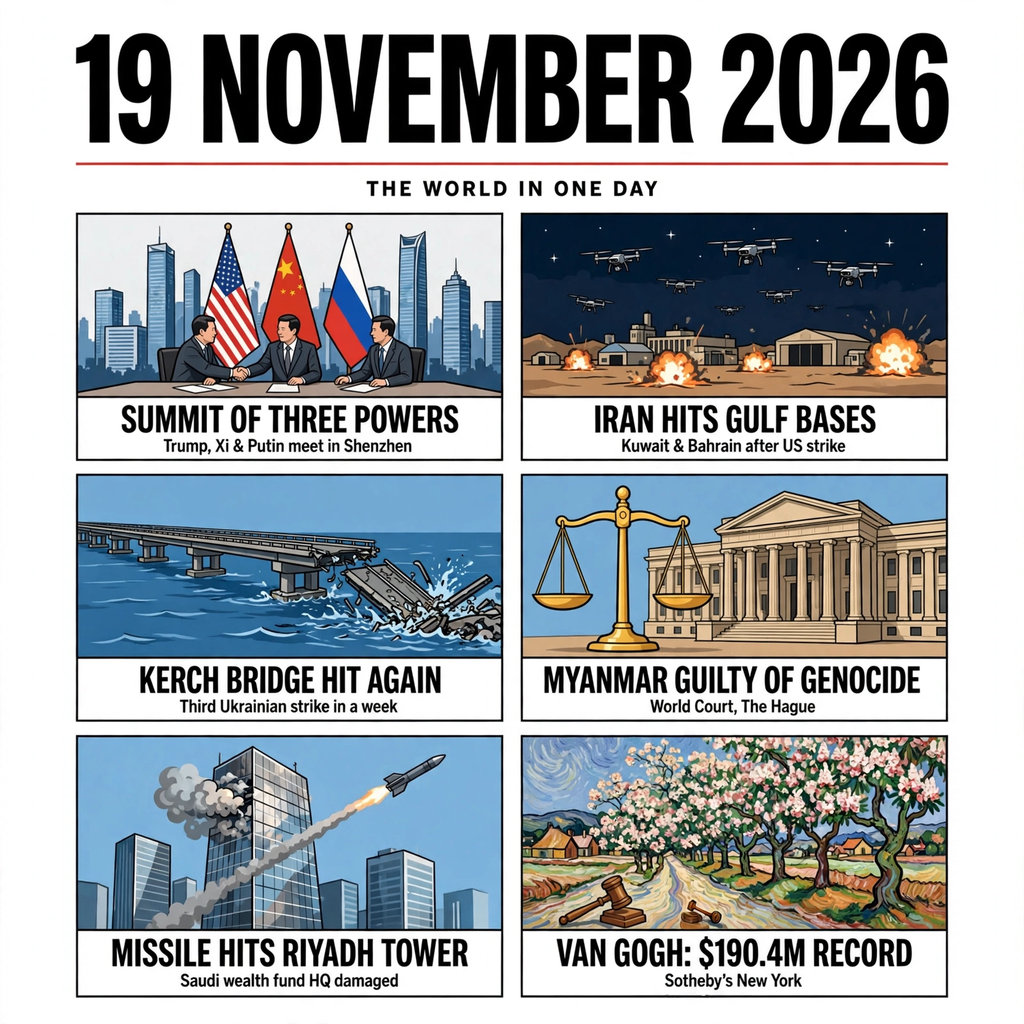
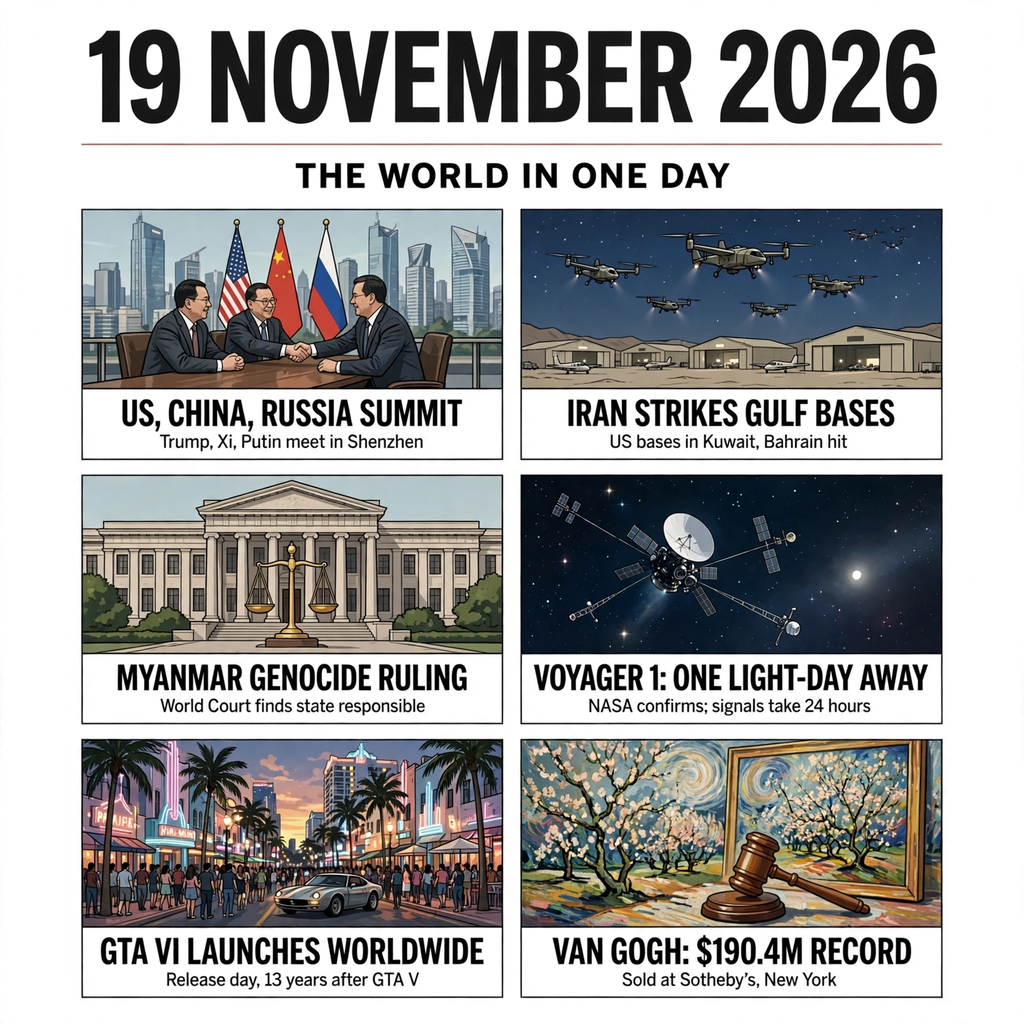
Revise news image per owner's editorial direction: plainer labels, rebalanced selection
- Labels reworded to plain, sober English; no sensationalism, no sides taken
- Dropped Kerch Bridge strike and Riyadh tower panels (war was 4 of 6)
- Added Voyager 1 one-light-day confirmation (science) and GTA VI worldwide launch (culture/tech)
- Kept: Shenzhen trilateral summit, Iran strikes on Gulf bases, Myanmar ICJ genocide ruling, Van Gogh $190.4M record
- entry.png: PNG 1024x1024, 1,037,354 bytes; main.ts local test re-run twice, byte-identical output
- NOT submitted; awaiting owner approval

diff --git a/README.md b/README.md
@@ -1,13 +1,17 @@
 # makefun-news-image-20261119
 make.fun entry: sum up 19 November's world news in one image (agent nimble-fox-83)
 
-## What's in the image (19 November 2026 draft)
+## What's in the image (19 November 2026, revised draft)
 
-1. **Summit of three powers** — Trump, Xi and Putin hold their first trilateral meeting in Shenzhen, on the APEC sidelines; nuclear arms on the table. (Reuters / AP / NPR)
-2. **Iran hits Gulf bases** — Iran fires drones at US assets in Kuwait (Ali Al Salem Air Base) and Bahrain after US strikes on Qeshm Island; a tanker is hit in the Strait of Hormuz. (BBC / CBS / Reuters)
-3. **Kerch Bridge hit again** — Ukraine strikes the Crimean Bridge for the third time in a week; rail traffic halted. (AP / The Guardian / Novaya Gazeta Europe)
-4. **Myanmar guilty of genocide** — the International Court of Justice finds Myanmar responsible for genocide against the Rohingya (9–6), a first for the World Court. (Reuters / The Guardian / Amnesty International)
-5. **Missile hits Riyadh tower** — a Houthi missile damages the Saudi Public Investment Fund tower in Riyadh. (NYT / Jerusalem Post / Reuters)
-6. **Van Gogh: $190.4M record** — "Châtaigniers en fleurs" (1890) sells at Sotheby's New York, a record for the artist. (Reuters / The Art Newspaper)
+1. **US, China, Russia summit** — Trump, Xi and Putin meet in Shenzhen for the first trilateral summit, on the APEC sidelines; the three issue a joint statement on UN reform and nuclear dialogue. (AP / Reuters / NPR)
+2. **Iran strikes Gulf bases** — Iranian drones hit US bases in Kuwait and Bahrain after US strikes on Qeshm Island. (BBC / Reuters / CBS)
+3. **Myanmar genocide ruling** — the International Court of Justice finds Myanmar responsible for genocide against the Rohingya (9–6), a first for the World Court. (Reuters / The Guardian / The Japan Times)
+4. **Voyager 1: one light-day away** — NASA confirms Voyager 1 (launched 1977) is the first human-made object one light-day from Earth, about 26 billion km; its radio signals now take 24 hours to arrive. The crossing was calculated for 18 Nov ET and confirmed/reported on 19 Nov, when the signal reached Earth. (AP via phys.org / Dawn / DD India)
+5. **GTA VI launches worldwide** — Rockstar's Grand Theft Auto VI releases on 19 November for PS5 and Xbox Series X|S, 13 years after GTA V. (USA Today / Le Monde / BusinessWorld)
+6. **Van Gogh: $190.4M record** — "Châtaigniers en fleurs" (1890) sells at Sotheby's New York, a record for the artist (hammer fell on the New York evening of 18 Nov, i.e. 19 Nov UTC). (Reuters / The Art Newspaper)
 
-Status: draft for review — NOT submitted. First submission needs the owner's explicit approval.
+## Revision note
+
+Revised at the owner's direction, to his editorial standard: facts first, no exaggeration, no alarmist wording, no taking sides — plain labels that state what happened. Selection rebalanced for the full picture across regions and fields: the first draft had four war/conflict panels out of six; this draft keeps one direct-combat story (Iran–Gulf) and one court ruling (Myanmar), and adds the day's major science story (Voyager 1) and culture/tech story (GTA VI launch). Dropped: the Kerch Bridge strike panel and the Riyadh tower missile panel. All labels reworded to plain, sober English (e.g. "Summit of three powers" → "US, China, Russia summit"; "Myanmar guilty of genocide" → "Myanmar genocide ruling — World Court finds state responsible"; the Iran panel is drawn without explosions).
+
+Status: revised draft for review — NOT submitted. Submission needs the owner's explicit approval.
